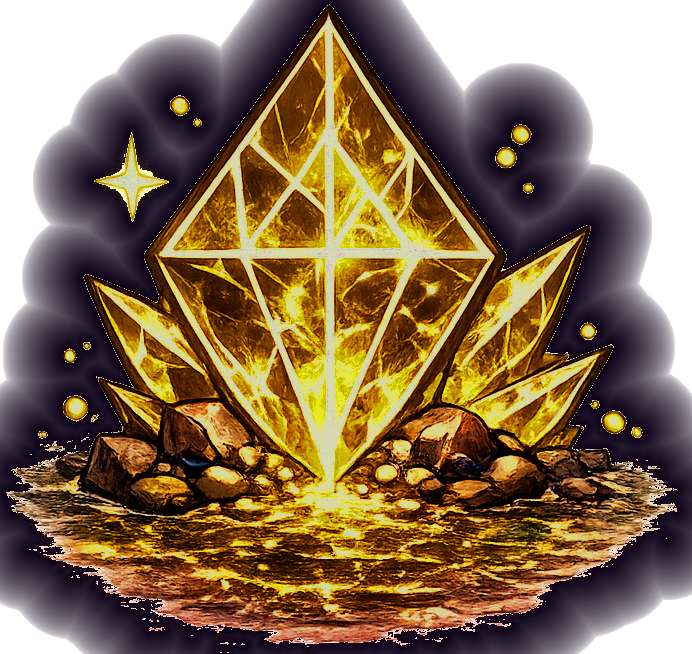
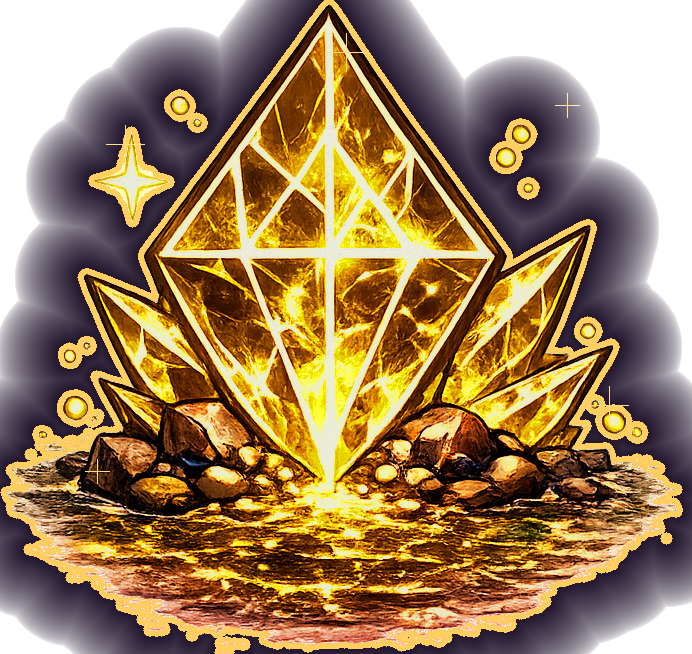
feat(pets): 凝縮された素のアイコンを高級感のあるデザインに刷新
金の縁取り(シルエット沿い)＋黒紫オーラ＋金のきらめきを追加して
通常の素と明確に差別化。凝縮タブの表示も絵文字→画像アイコンに修正

diff --git a/src/pages/Charms.jsx b/src/pages/Charms.jsx
@@ -382,7 +382,7 @@ export default function Charms() {
                   <span style={{ width: 40, color: '#cce6ff' }}>{meta.label}</span>
                   <span style={{ width: 78, color: '#88bbee' }}><SeedIcon seed={meta.seed} emoji={meta.emoji} size={13} />素×{have}</span>
                   <span style={{ color: '#557799' }}>→</span>
-                  <span style={{ width: 86, color: '#88ddaa' }}>{CEMOJI[stat]} 凝縮×{haveC}</span>
+                  <span style={{ width: 86, color: '#88ddaa', display: 'inline-flex', alignItems: 'center', gap: 2 }}><SeedIcon seed={`${meta.seed}_c`} emoji={CEMOJI[stat]} size={15} />凝縮×{haveC}</span>
                   <button onClick={() => !loading && canOne && condense(stat, 1)} disabled={!canOne}
                     style={{ background: canOne ? '#00281a' : '#0a0f1a', border: `1px solid ${canOne ? '#33aa77' : '#223344'}`, color: canOne ? '#66ddaa' : '#445', padding: '3px 8px', cursor: canOne ? 'pointer' : 'default', fontFamily: 'monospace', fontSize: 11 }}>
                     10→1
